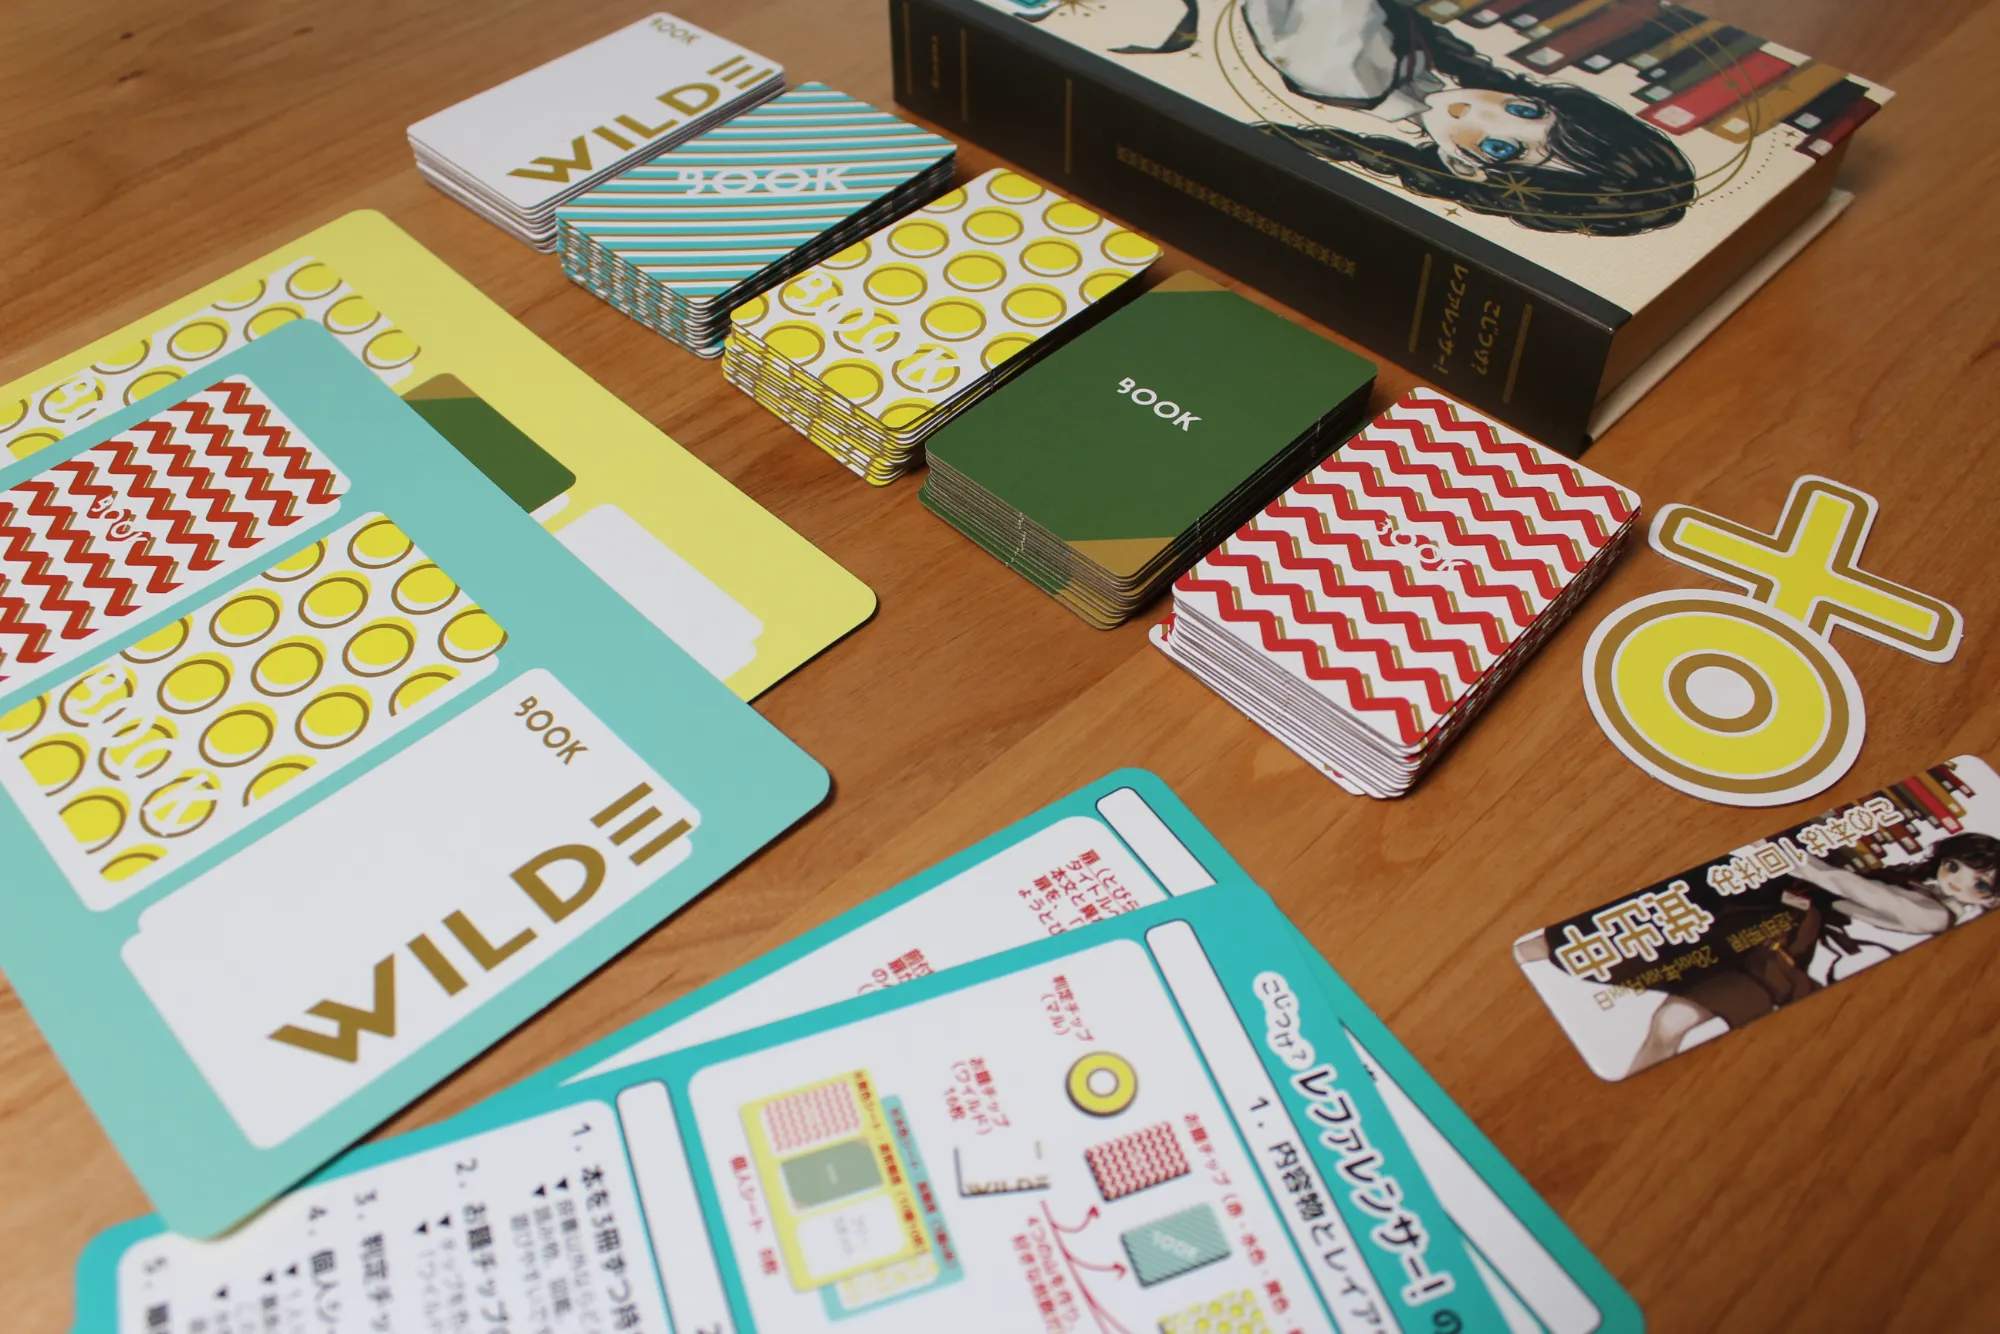
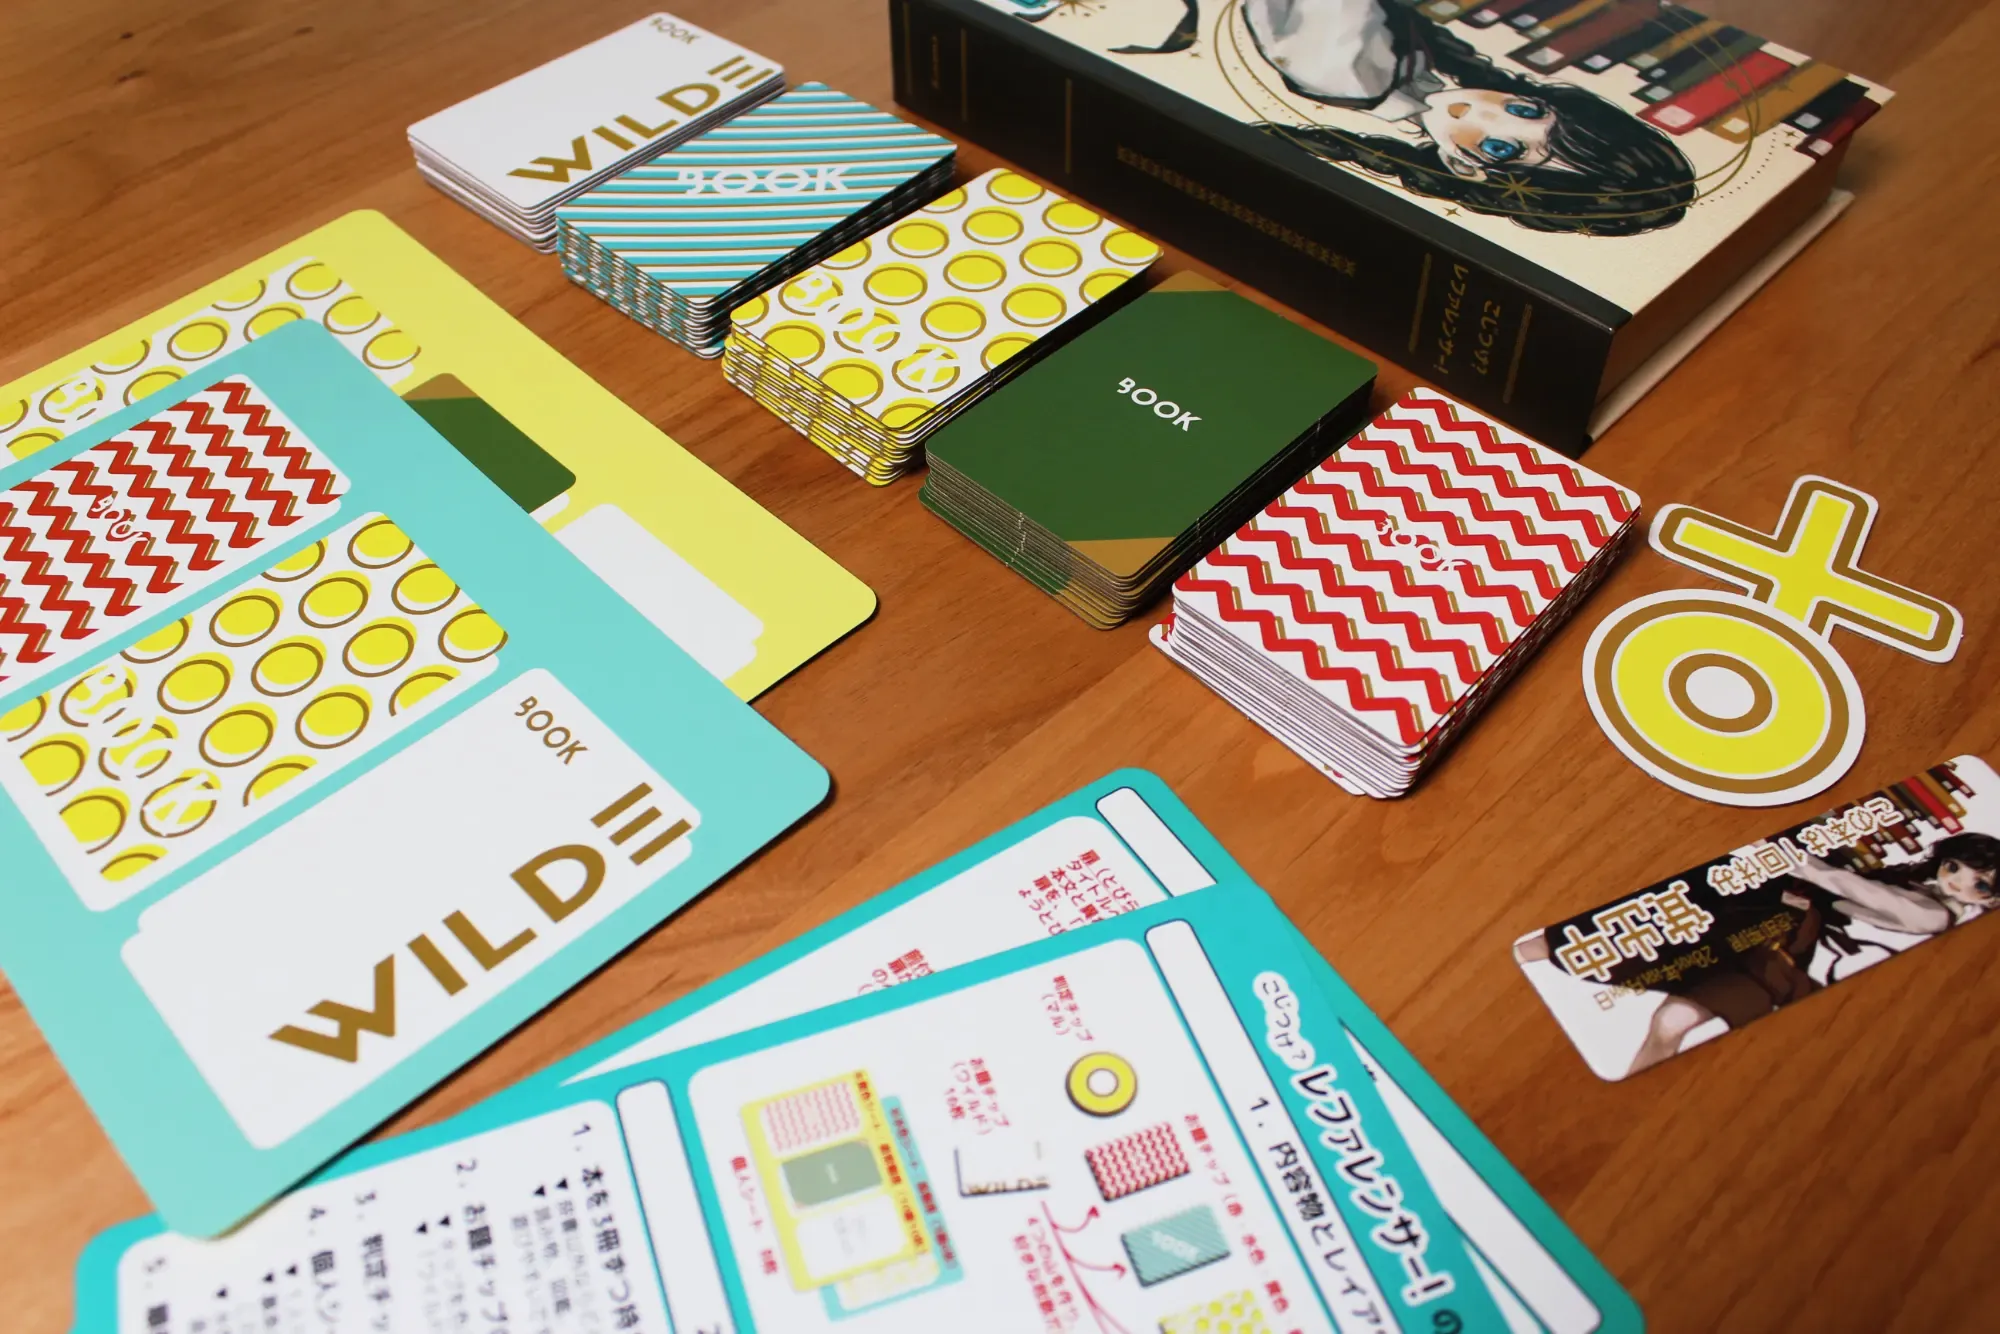
images update

diff --git a/works.html b/works.html
@@ -67,7 +67,7 @@
         <div class="works-gallery">
           <img src="assets/austria2.webp" alt="林業機械と丸太" loading="lazy" />
           <img src="assets/austria.webp" alt="森林資源の広がる山地" loading="lazy" />
-          <img class="image-focus-top" src="assets/structure4.webp" alt="木造建築の通路" loading="lazy" />
+          <img class="image-focus-top" src="assets/daikaizai.webp" alt="製材された木材" loading="lazy" />
         </div>
       </article>
 
@@ -85,8 +85,8 @@
           <a class="profile-map-link" href="https://paddlea.booth.pm/" target="_blank" rel="noopener noreferrer">BOOTH</a>
         </div>
         <div class="works-gallery">
-          <img src="assets/structure3.webp" alt="夜の木造建築" loading="lazy" />
-          <img src="assets/kojirefa1.webp" alt="ボードゲームのカード" loading="lazy" />
+          <img src="assets/mitiada3.webp" alt="みちあそびのプレイ風景" loading="lazy" />
+          <img src="assets/kojirefa2.webp" alt="ボードゲームのカード" loading="lazy" />
           <img src="assets/mitiada1.webp" alt="ボードゲームのプレイ風景" loading="lazy" />
         </div>
       </article>

diff --git a/index.html b/index.html
@@ -103,7 +103,7 @@
             <div class="image-row">
               <img src="assets/shiretoko.webp" alt="知床の森林" loading="lazy" />
               <img class="image-focus-top" src="assets/port2.webp" alt="森林調査の様子" loading="lazy" />
-              <img src="assets/structure3.webp" alt="夜の木造建築" loading="lazy" />
+              <img src="assets/austria1.webp" alt="オーストリアの木造建築" loading="lazy" />
             </div>
           </article>
 
@@ -115,8 +115,8 @@
             </p>
             <div class="image-row">
               <img src="assets/kojirefa1.webp" alt="ボードゲームのカード" loading="lazy" />
-              <img src="assets/mitiada1.webp" alt="ボードゲームのプレイ風景" loading="lazy" />
-              <img class="image-focus-top" src="assets/structure4.webp" alt="木造建築の通路" loading="lazy" />
+              <img src="assets/mitiada2.webp" alt="みちあそびのプレイ風景" loading="lazy" />
+              <img class="image-focus-top" src="assets/liberade1.webp" alt="Liberadeの制作物" loading="lazy" />
             </div>
           </article>
 

diff --git a/assets/styles.css b/assets/styles.css
@@ -280,8 +280,8 @@ body.menu-open .menu-toggle span:nth-child(2) {
   margin: 0;
   color: #000000;
   font-family: var(--side);
-  font-size: 16px;
-  font-weight: 500;
+  font-size: 18px;
+  font-weight: 600;
   letter-spacing: 0.15em;
   line-height: 1.9;
   opacity: var(--side-copy-opacity, 0.84);
@@ -1121,7 +1121,7 @@ body.menu-open .menu-toggle span:nth-child(2) {
 }
 
 .works-service-actions {
-  width: min(760px, 100%);
+  width: 100%;
   justify-content: flex-end;
   margin: 28px auto 0;
 }
